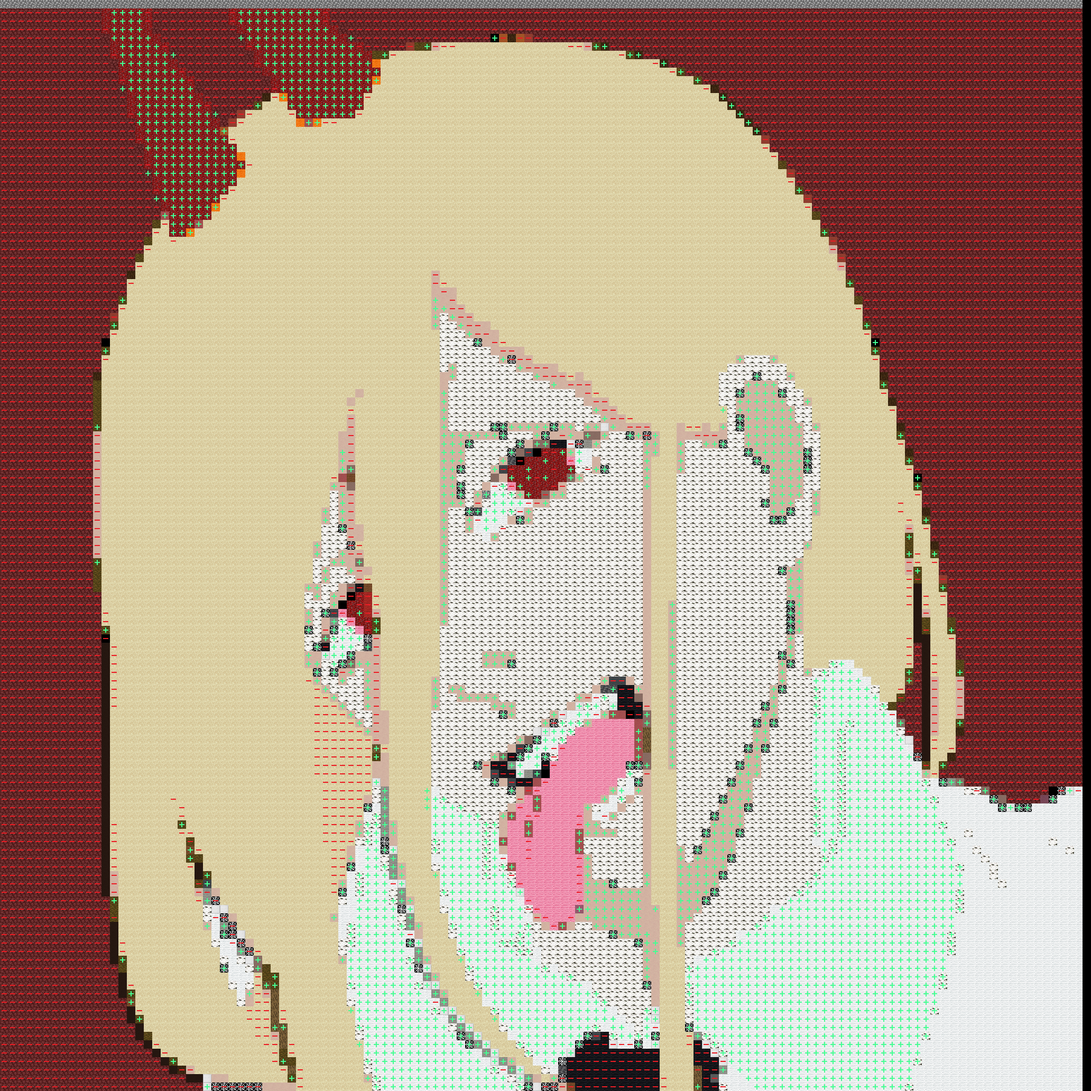
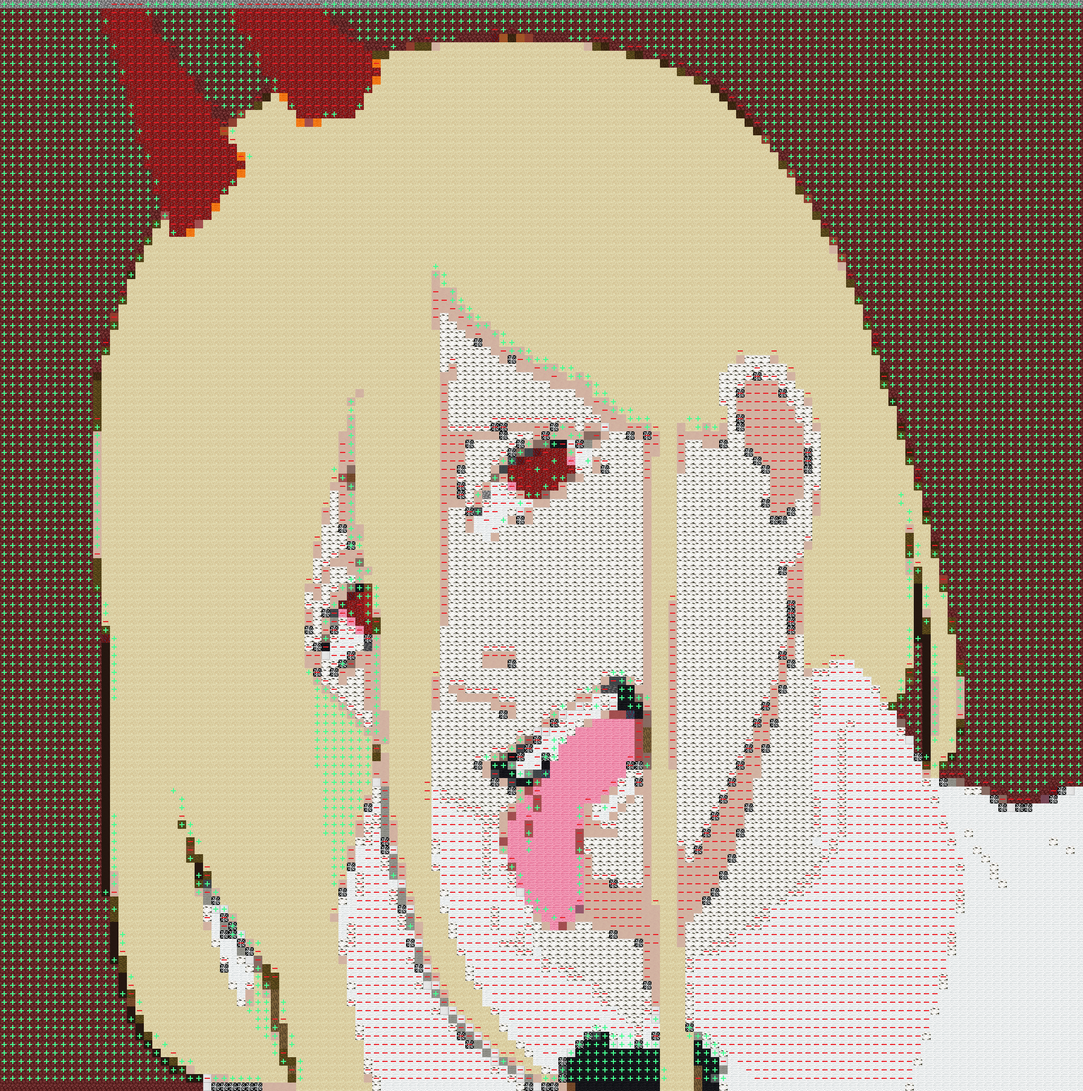
Cleaned some things up and improved a few aspects

diff --git a/imagifier/Main.java b/imagifier/Main.java
@@ -1,48 +1,31 @@
 package imagifier;
 
-import java.io.FileReader;
-import java.awt.Color;
 import java.awt.Graphics2D;
 import java.awt.image.BufferedImage;
 import java.io.File;
 import java.io.FileInputStream;
-import java.io.FileNotFoundException;
-import java.io.FileOutputStream;
 import java.io.IOException;
-import java.io.InputStream;
 import java.util.ArrayList;
 import java.util.HashMap;
 import java.util.Map;
-import java.util.Scanner;
 
 import javax.imageio.ImageIO;
 
 
 /**
- * Class that contains the main method for the program and creates the frame
- * containing the component.
+* I put everything into the main method (and thereby one file) because I'm used to Python and it is really short
  * 
- * @author @henning
- * @version 5/13/21
+ * @author @ahenning
+ * @version 1/31/24
  */
 
 public class Main {
 	
-	// Default values, will not normally be used
-	boolean recalculate = true;
-	boolean recalculate_avg = true;
-	boolean recalculate_hue = true;
-	boolean do_average = true;
-	int precision = 3;
 	static int pixels_per_tile = 16;
-	static int width = 129;
+	static int width = 128;
 	static int height = 129;
-	boolean do_any_corrections = true;
-	/**
-	 * main method for the program which creates and configures the frame for the
-	 * program
-	 *
-	 */
+	static int height_of_lowest_block = 64;
+	static String count_direction = "from bottom";
 	public static void main(String[] args) {
 		System.out.println("Starting");
 		File file = null;
@@ -51,7 +34,6 @@ public class Main {
 		try {
 			file = new File("input json/input.json");
 			in = new FileInputStream(file);
-			// out = new FileOutputStream("stages/1.txt");
 
 			byte[] data = new byte[(int) file.length()];
 			in.read(data);
@@ -95,7 +77,7 @@ public class Main {
 			//System.out.println(name+","+x_str+","+y_str+","+z_str);
 			try {
 				int x = Integer.parseInt(x_str);
-				int y = Integer.parseInt(y_str);
+				int y = Integer.parseInt(y_str) + height_of_lowest_block;
 				int z = Integer.parseInt(z_str);
 				if (data[x][z] != null && data[x][z].y > y) {
 					// Don't save if there is already something here and it is higher than the current block
@@ -118,11 +100,7 @@ public class Main {
 
 		System.out.println("Minimum Y value: "+minY);
 		System.out.println("Maximum Y value: "+maxY);
-		System.out.println("All blocks in it: "+all_blocks.toString());
-		//for (int i = 0; i < all_blocks.size();i+=1) {
-		//	if (all_blocks.get(i).contains("wool"))
-		//}
-
+		System.out.println("All blocks in schema: "+all_blocks.toString());
 		
 		/*
 		for (BlockInfo[] arr: data) {
@@ -149,22 +127,27 @@ public class Main {
 
 		try {
 			File output = new File("output/result.png");
-			for (int i = 0; i < 129; i+=1) {
-				for (int j = 0; j < 129; j+=1) {
+			for (int i = 0; i < width; i+=1) {
+				for (int j = 0; j < height; j+=1) {
 					if (data[i][j] != null){
 						graphic2D.drawImage(map.get(data[i][j].name).texture, i*16, j*16, null);
 
-						if (j > 0) {
-							int diff = data[i][j].y-data[i][j-1].y;
-							if (diff == 1) {
-								graphic2D.drawImage(map.get("plus").texture, i*16, j*16, null);
-							} else if (diff > 1) {
-								graphic2D.drawImage(map.get("double_plus").texture, i*16, j*16, null);
-							} else if (diff == -1) {
-								graphic2D.drawImage(map.get("minus").texture, i*16, j*16, null);
-							} else if (diff < -1) {
-								graphic2D.drawImage(map.get("double_minus").texture, i*16, j*16, null);
-							}
+						int diff = 0;
+						if (count_direction == "from top" && j > 0) {
+							diff = data[i][j].y-data[i][j-1].y;
+						} else if (count_direction == "from bottom" && j < height-1) {
+							diff = data[i][j].y-data[i][j+1].y;
+						}
+						if (diff == 1) {
+							graphic2D.drawImage(map.get("plus").texture, i*16, j*16, null);
+						} else if (diff > 1) {
+							graphic2D.drawImage(map.get("double_plus").texture, i*16, j*16, null);
+							System.out.println("Notice: Jump of more than one block at "+i+", "+j+". New Y: "+data[i][j].y);
+						} else if (diff == -1) {
+							graphic2D.drawImage(map.get("minus").texture, i*16, j*16, null);
+						} else if (diff < -1) {
+							graphic2D.drawImage(map.get("double_minus").texture, i*16, j*16, null);
+							System.out.println("Notice: Drop of more than one block at "+i+", "+j+". New Y: "+data[i][j].y);
 						}
 					} else {
 						System.out.println("Nothing at "+i+", "+j+" for some reason");
@@ -176,57 +159,36 @@ public class Main {
 			System.out.println(log);
 		}
 		System.out.println("Finished building output image.");
-		/*
-		try {
-            
-			// todo
-			// This is for matching target to thingies?
-			for (int i = 0; i < in.getWidth() - (pixels_per_tile / 2); i += pixels_per_tile) {
-				for (int j = 0; j < in.getHeight() - (pixels_per_tile / 2); j += pixels_per_tile) {
-					color = in.getRGB(i + (pixels_per_tile / 2), j + (pixels_per_tile / 2));
-					rgb[2] = color & 0xff;
-					rgb[1] = (color & 0xff00) >> 8;
-					rgb[0] = (color & 0xff0000) >> 16;
-					int a = ((color & 0xff000000) >> 24);
-					if (a != -1 && a < 10) {
-						continue;
-					}
-					String result = "";
-					if (do_average) {
-						result = closest(rgb);
-						//System.out.println("In target file, for RGB " + rgb[0] + " " + rgb[1] + " " + rgb[2] + " " + a
-						//		+ ", closest match is " + result);
-					} else {
-						Color.RGBtoHSB(rgb[0],rgb[1],rgb[2], hue);
-						result = closest(hue);
-						System.out.println("In target file, for hue " + hue[0] + " " + hue[1] + " " + hue[2] + " " + a
-								+ ", closest match is " + result);
-					}
-					if (result == "") {
-						System.out.println("WARNING: No good match (usually no matching dominant color).");
-						continue;
-					}
-					BufferedImage tile = null;
-					try {
-						tile = ImageIO.read(new File("images/" + result));
-					} catch (IOException e) {
-						System.out
-								.println("ERROR: Could not open file " + result + ". Info: " + e.getLocalizedMessage());
-						return -1;
-					}
-					//System.out.println("Writing to image file, at location "+(int)((float)i * ((float)width / (float)pixels_per_tile))+", "+( j * (height / pixels_per_tile)));
-					//System.out.println(i+" "+j+" "+width+" "+height+" "+pixels_per_tile);
-				}
+
+		System.out.println("Y values of top of image, in format [x,y]:");
+		for (int i = 0; i < width; i+=1) {
+			System.out.print("["+i+","+ data[i][1].y+"]");
+			if (i != width-1) {
+				System.out.print(",");
 			}
-			System.out.println("Writing to image.");
-			
-			ImageIO.write(image, "png", output);
-		} catch (IOException log) {
-			System.out.println(log);
 		}
-		System.out.println("Finished building output image.");
-		return 1;*/
-      
+		System.out.println("\n");
+
+
+		Map<Integer, Integer> heightMap = new HashMap<Integer, Integer>();
+
+		System.out.println("Y values of bottom of image, in format [x,y]:");
+		for (int i = 0; i < width; i+=1) {
+			System.out.print("["+i+","+ data[i][height-1].y+"]");
+			if (i != width-1) {
+				System.out.print(",");
+			}
+			if (heightMap.containsKey(data[i][height-1].y)) {
+				heightMap.put(data[i][height-1].y,heightMap.get(data[i][height-1].y) + 1);
+			} else {
+				heightMap.put(data[i][height-1].y,1);
+			}
+		}
+		System.out.println("\n");
+
+		System.out.println("Occurences of each height at bottom of image: \n"+heightMap.toString());
+
+		
 	}
 
 }
@@ -252,7 +214,11 @@ class BlockImage {
 		try {
 			texture = ImageIO.read(new File("images/" + block+".png"));
 		} catch (IOException e) {
-			System.out.println("ERROR: Could not open file " + block + ". Info: " + e.getLocalizedMessage());
+			try {
+				texture = ImageIO.read(new File("images/" + block+"_top.png"));
+			} catch (IOException e2) {
+				System.out.println("ERROR: Could not open file " + block + ". Info: " + e.getLocalizedMessage());
+			}
 		}
 	}
 	public String toString() {
